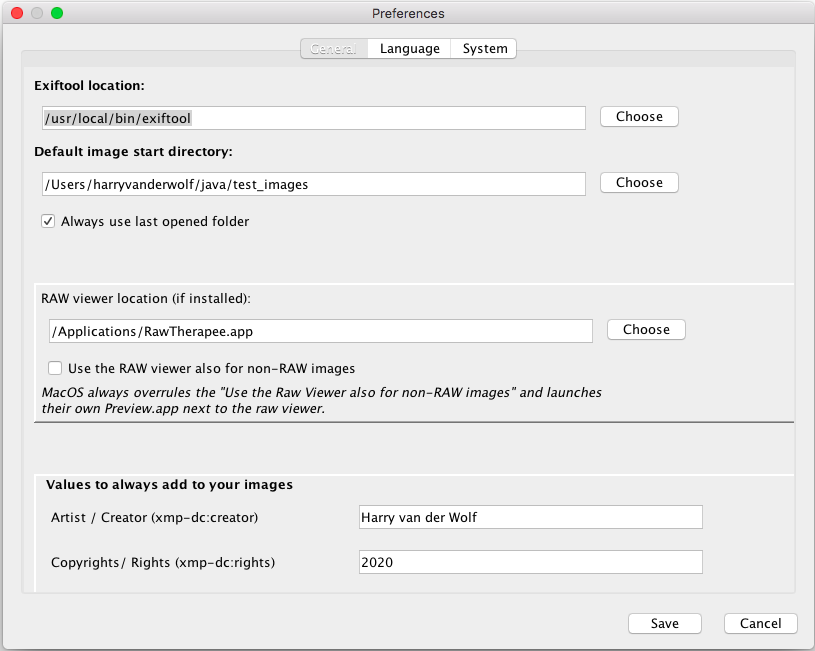
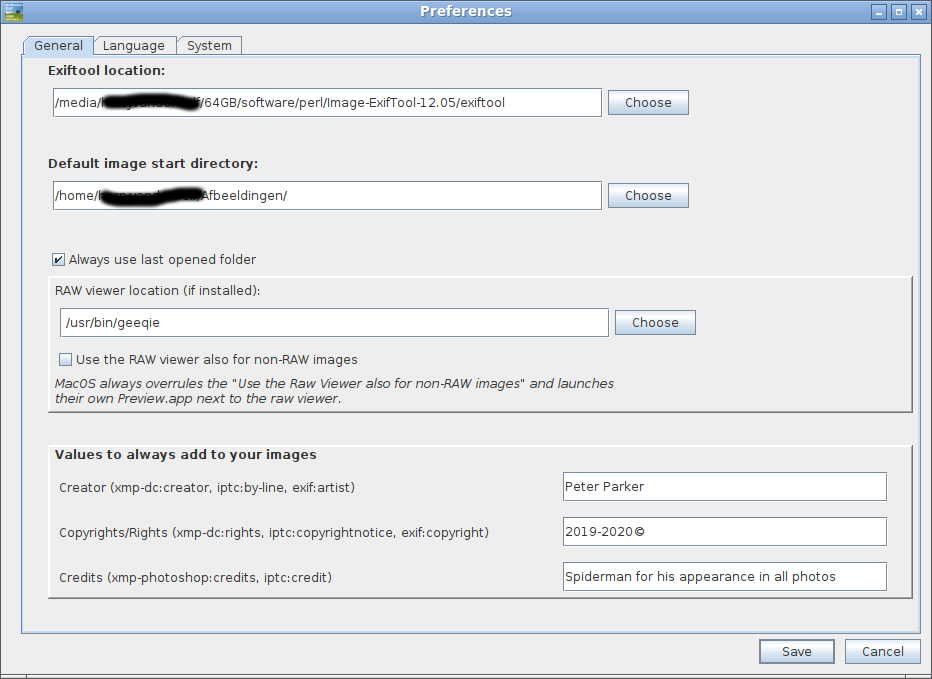
changes: manual, preferences, strings

Changed region(s): [[0.0, 0.0, 1.0, 1.0], [0.6442, 0.4608, 0.8282, 0.5223]]

diff --git a/docs/manual/index.html b/docs/manual/index.html
@@ -221,8 +221,8 @@ All other versions: be it the MacOS bundles, or windows .exes or linux appImage 
 <h2 class="chapter">3 Quick Start</h2>
 
 <p>The program consists of a left pane containing your photos, and a right pane which consists of a set of tabs. One of these tabs ("Edit") contains a subset of tabs.
-Next to the tabs on the right the program also has several menusu which contain more functionalities.
-A number of buttons and functions will not work, and are disabled, untill you have loaded at least one photo.
+Next to the tabs on the right, the program also has several menus which contain more functionalities.
+A number of buttons and functions will not work, and are disabled, until you have loaded at least one photo.
 Most actions on your images which you perform in the right tabs or in the menus, only work after having selected at least one, or more of the loaded photos in the left pane.
 <figure>
     <a href="images/mainscreen-quickstart-01.png" target="_blank"><img src="images/mainscreen-quickstart-01.png" width="1024"></a><br>
@@ -336,14 +336,16 @@ Upon saving this set, you also use the file chooser to select the cfg file you c
 <p><a name="preferences"></a>
 <h3 class="chapter">5 Preferences</h3>
 The Preferences can be found under the menu "File -> Preferences"<br>
-Currently the Preferences screen has 3 tabs: General, Language, System. See below (reduced size) images.<br>
-<table><tr valign="top"><td><a href="images/01-preferences-general.png" target="_blank"><img src="images/01-preferences-general-450.png"></a></td>
+Currently the Preferences screen has 3 tabs: General (Linux LXDE), Language (Windows), System (MacOS). See below (reduced size) images.<br>
+<table><tr valign="top"><td><a href="images/01-preferences-general.png" target="_blank"><img src="images/01-preferences-general-500.png"></a></td>
     <td><a href="images/02-preferences-language.png" target="_blank"><img src="images/02-preferences-language-450.png"></a><br><hr>
         <a href="images/03-preferences-system.png" target="_blank"><img src="images/03-preferences-system-450.png"></a>
         </td></tr><tr><td colspan=" 2"><center>Click the images for a full-sized view in a separate tab.</center></td></tr><table>
-<p>The <strong>"General"</strong> tab (left): W.r.t. the "Raw Image viewer". jExiftoolGUI can show quite a lot of images like jpg/png/tif/bmp/pgm, but not Raw Images (it can convert some to jpg thumbnails for viewing in the left pane), and neither can most operating systems. So if you have Raw Images and you want to see them full screen, you need to install a Raw Image Viewer.</p>
+<p>The <strong>"General"</strong> tab (left): 
+    <ul><li>W.r.t. the "Raw Image viewer". jExiftoolGUI can show quite a lot of images like jpg/png/tif/bmp/pgm, but not Raw Images (it can convert some to jpg thumbnails for viewing in the left pane), and neither can most operating systems show Raw Images. So if you have Raw Images and you want to see them full screen, you need to install a Raw Image Viewer.</li>
+    <li>Values to always add to your images: These are 3 input fileds writing to multiple metadata tags. the xmp and iptc tags are used by Google Photos and many professional photographers. The somewhat older exif tags are meant for the same purposes but slightly outdate.</li></ul></p>
 <p>The <strong>"Language"</strong> tab (top right): jExifToolGUI can be translated. jExifToolGUI will try to start in the operating system language, but only if that is available as translated "property language".  It is currently translated in (American) English (default), Spanish, German and Dutch. On this tab you can select one of those languages if you prefer that over your system language, or in case your system language is not supported but your American English is not as good as your Spanish or German.<br>
-Many users have helped to translate the desciption of metadata tags in Exiftool. This has nothing to do with jExifToolGUI, but with ExifTool. You can select a number of languages and if the tag is translated you will see it in that language.<br>
+Many users have helped to translate the desciption of metadata tags in Exiftool. This has nothing to do with jExifToolGUI, but with ExifTool. You can select a number of languages and if the tag is translated you will see the tag in that language.<br>
 Translating the application in your language is a volunteers/community effort. <a href="https://hvdwolf.github.io/jExifToolGUI/translate.html" target="_blank">Please help in translating this application</a>.</p>
 <p>The <strong>"System"</strong> tab (bottom right): W.r.t. the log level: Do not set it too high. That will create huge files and slow down the application (due to all the logging). The author or someone else might ask you to put it to the highest level for trobleshooting.</p>
 <p><br></p><HR>

diff --git a/src/main/java/org/hvdw/jexiftoolgui/PreferencesDialog.java b/src/main/java/org/hvdw/jexiftoolgui/PreferencesDialog.java
@@ -335,22 +335,22 @@ public class PreferencesDialog extends JDialog {
         contentPanel = new JPanel();
         contentPanel.setLayout(new GridLayoutManager(2, 1, new Insets(10, 10, 10, 10), -1, -1));
         tabbedPanel = new JTabbedPane();
-        contentPanel.add(tabbedPanel, new GridConstraints(0, 0, 1, 1, GridConstraints.ANCHOR_CENTER, GridConstraints.FILL_NONE, GridConstraints.SIZEPOLICY_CAN_SHRINK | GridConstraints.SIZEPOLICY_CAN_GROW, GridConstraints.SIZEPOLICY_CAN_SHRINK | GridConstraints.SIZEPOLICY_CAN_GROW, null, null, null, 0, false));
+        contentPanel.add(tabbedPanel, new GridConstraints(0, 0, 1, 1, GridConstraints.ANCHOR_CENTER, GridConstraints.FILL_NONE, GridConstraints.SIZEPOLICY_CAN_SHRINK | GridConstraints.SIZEPOLICY_CAN_GROW, GridConstraints.SIZEPOLICY_CAN_SHRINK | GridConstraints.SIZEPOLICY_CAN_GROW, null, new Dimension(900, 600), null, 1, false));
         final JPanel panel1 = new JPanel();
         panel1.setLayout(new GridLayoutManager(1, 1, new Insets(0, 0, 0, 0), -1, -1));
-        panel1.setMinimumSize(new Dimension(770, 500));
-        panel1.setPreferredSize(new Dimension(770, 525));
+        panel1.setMinimumSize(new Dimension(-1, -1));
+        panel1.setPreferredSize(new Dimension(-1, -1));
         tabbedPanel.addTab(this.$$$getMessageFromBundle$$$("translations/program_strings", "prefs.generaltab"), panel1);
         generalPanel = new JPanel();
-        generalPanel.setLayout(new GridLayoutManager(10, 1, new Insets(10, 10, 10, 10), -1, -1));
+        generalPanel.setLayout(new GridLayoutManager(7, 1, new Insets(5, 5, 5, 5), -1, -1));
         generalPanel.setMaximumSize(new Dimension(-1, -1));
-        generalPanel.setMinimumSize(new Dimension(800, 600));
-        generalPanel.setPreferredSize(new Dimension(850, 650));
+        generalPanel.setMinimumSize(new Dimension(-1, -1));
+        generalPanel.setPreferredSize(new Dimension(-1, -1));
         generalPanel.setRequestFocusEnabled(false);
-        panel1.add(generalPanel, new GridConstraints(0, 0, 1, 1, GridConstraints.ANCHOR_CENTER, GridConstraints.FILL_BOTH, GridConstraints.SIZEPOLICY_CAN_SHRINK | GridConstraints.SIZEPOLICY_CAN_GROW, GridConstraints.SIZEPOLICY_CAN_SHRINK | GridConstraints.SIZEPOLICY_CAN_GROW, null, null, null, 0, false));
+        panel1.add(generalPanel, new GridConstraints(0, 0, 1, 1, GridConstraints.ANCHOR_NORTH, GridConstraints.FILL_HORIZONTAL, GridConstraints.SIZEPOLICY_CAN_SHRINK | GridConstraints.SIZEPOLICY_CAN_GROW, GridConstraints.SIZEPOLICY_CAN_SHRINK | GridConstraints.SIZEPOLICY_CAN_GROW, null, new Dimension(850, 600), null, 2, false));
         final JPanel panel2 = new JPanel();
         panel2.setLayout(new GridLayoutManager(2, 1, new Insets(0, 0, 0, 0), -1, -1));
-        generalPanel.add(panel2, new GridConstraints(0, 0, 1, 1, GridConstraints.ANCHOR_CENTER, GridConstraints.FILL_BOTH, GridConstraints.SIZEPOLICY_CAN_SHRINK | GridConstraints.SIZEPOLICY_CAN_GROW, GridConstraints.SIZEPOLICY_CAN_SHRINK | GridConstraints.SIZEPOLICY_CAN_GROW, null, null, null, 0, false));
+        generalPanel.add(panel2, new GridConstraints(0, 0, 1, 1, GridConstraints.ANCHOR_NORTH, GridConstraints.FILL_HORIZONTAL, GridConstraints.SIZEPOLICY_CAN_SHRINK | GridConstraints.SIZEPOLICY_CAN_GROW, GridConstraints.SIZEPOLICY_CAN_SHRINK | GridConstraints.SIZEPOLICY_CAN_GROW, null, null, null, 0, false));
         final JLabel label1 = new JLabel();
         Font label1Font = this.$$$getFont$$$(null, Font.BOLD, -1, label1.getFont());
         if (label1Font != null) label1.setFont(label1Font);
@@ -373,17 +373,18 @@ public class PreferencesDialog extends JDialog {
         generalPanel.add(label2, new GridConstraints(1, 0, 1, 1, GridConstraints.ANCHOR_WEST, GridConstraints.FILL_NONE, GridConstraints.SIZEPOLICY_FIXED, GridConstraints.SIZEPOLICY_FIXED, null, null, null, 0, false));
         final JPanel panel4 = new JPanel();
         panel4.setLayout(new FlowLayout(FlowLayout.LEFT, 5, 5));
-        generalPanel.add(panel4, new GridConstraints(2, 0, 1, 1, GridConstraints.ANCHOR_CENTER, GridConstraints.FILL_BOTH, GridConstraints.SIZEPOLICY_CAN_SHRINK | GridConstraints.SIZEPOLICY_CAN_GROW, GridConstraints.SIZEPOLICY_CAN_SHRINK | GridConstraints.SIZEPOLICY_CAN_GROW, null, null, null, 0, false));
+        generalPanel.add(panel4, new GridConstraints(2, 0, 1, 1, GridConstraints.ANCHOR_NORTH, GridConstraints.FILL_HORIZONTAL, GridConstraints.SIZEPOLICY_CAN_SHRINK | GridConstraints.SIZEPOLICY_CAN_GROW, GridConstraints.SIZEPOLICY_CAN_SHRINK | GridConstraints.SIZEPOLICY_CAN_GROW, null, null, null, 0, false));
         ImgStartFoldertextField = new JTextField();
         ImgStartFoldertextField.setMinimumSize(new Dimension(300, 30));
         ImgStartFoldertextField.setPreferredSize(new Dimension(550, 30));
+        ImgStartFoldertextField.setText("");
         panel4.add(ImgStartFoldertextField);
         ImgStartFolderButton = new JButton();
         this.$$$loadButtonText$$$(ImgStartFolderButton, this.$$$getMessageFromBundle$$$("translations/program_strings", "prefs.btnchoose"));
         panel4.add(ImgStartFolderButton);
         final JPanel panel5 = new JPanel();
-        panel5.setLayout(new GridLayoutManager(4, 1, new Insets(0, 10, 0, 0), -1, -1));
-        generalPanel.add(panel5, new GridConstraints(8, 0, 1, 1, GridConstraints.ANCHOR_CENTER, GridConstraints.FILL_BOTH, GridConstraints.SIZEPOLICY_CAN_SHRINK | GridConstraints.SIZEPOLICY_CAN_GROW, GridConstraints.SIZEPOLICY_CAN_SHRINK | GridConstraints.SIZEPOLICY_CAN_GROW, null, null, null, 0, false));
+        panel5.setLayout(new GridLayoutManager(4, 1, new Insets(0, 5, 0, 0), -1, -1));
+        generalPanel.add(panel5, new GridConstraints(6, 0, 1, 1, GridConstraints.ANCHOR_NORTH, GridConstraints.FILL_HORIZONTAL, GridConstraints.SIZEPOLICY_CAN_SHRINK | GridConstraints.SIZEPOLICY_CAN_GROW, GridConstraints.SIZEPOLICY_CAN_SHRINK | GridConstraints.SIZEPOLICY_CAN_GROW, null, null, null, 0, false));
         panel5.setBorder(BorderFactory.createTitledBorder(BorderFactory.createRaisedBevelBorder(), null, TitledBorder.DEFAULT_JUSTIFICATION, TitledBorder.DEFAULT_POSITION, null, null));
         final JLabel label3 = new JLabel();
         Font label3Font = this.$$$getFont$$$(null, Font.BOLD, -1, label3.getFont());
@@ -391,65 +392,61 @@ public class PreferencesDialog extends JDialog {
         this.$$$loadLabelText$$$(label3, this.$$$getMessageFromBundle$$$("translations/program_strings", "prefs.alwaysaddvals"));
         panel5.add(label3, new GridConstraints(0, 0, 1, 1, GridConstraints.ANCHOR_WEST, GridConstraints.FILL_NONE, GridConstraints.SIZEPOLICY_FIXED, GridConstraints.SIZEPOLICY_FIXED, null, null, null, 0, false));
         final JPanel panel6 = new JPanel();
-        panel6.setLayout(new FlowLayout(FlowLayout.LEFT, 5, 5));
-        panel5.add(panel6, new GridConstraints(1, 0, 1, 1, GridConstraints.ANCHOR_CENTER, GridConstraints.FILL_BOTH, GridConstraints.SIZEPOLICY_CAN_SHRINK | GridConstraints.SIZEPOLICY_CAN_GROW, GridConstraints.SIZEPOLICY_CAN_SHRINK | GridConstraints.SIZEPOLICY_CAN_GROW, null, null, null, 0, false));
+        panel6.setLayout(new FlowLayout(FlowLayout.LEFT, 4, 5));
+        panel5.add(panel6, new GridConstraints(1, 0, 1, 1, GridConstraints.ANCHOR_NORTH, GridConstraints.FILL_HORIZONTAL, GridConstraints.SIZEPOLICY_CAN_SHRINK | GridConstraints.SIZEPOLICY_WANT_GROW, GridConstraints.SIZEPOLICY_CAN_SHRINK | GridConstraints.SIZEPOLICY_CAN_GROW, null, null, null, 0, false));
         final JLabel label4 = new JLabel();
         label4.setMaximumSize(new Dimension(300, 18));
         label4.setMinimumSize(new Dimension(220, 18));
-        label4.setPreferredSize(new Dimension(300, 18));
+        label4.setPreferredSize(new Dimension(500, 18));
         this.$$$loadLabelText$$$(label4, this.$$$getMessageFromBundle$$$("translations/program_strings", "prefs.artist"));
         panel6.add(label4);
         ArtisttextField = new JTextField();
-        ArtisttextField.setPreferredSize(new Dimension(350, 30));
+        ArtisttextField.setPreferredSize(new Dimension(325, 30));
         panel6.add(ArtisttextField);
         final JPanel panel7 = new JPanel();
-        panel7.setLayout(new FlowLayout(FlowLayout.LEFT, 5, 5));
-        panel5.add(panel7, new GridConstraints(2, 0, 1, 1, GridConstraints.ANCHOR_CENTER, GridConstraints.FILL_BOTH, GridConstraints.SIZEPOLICY_CAN_SHRINK | GridConstraints.SIZEPOLICY_CAN_GROW, GridConstraints.SIZEPOLICY_CAN_SHRINK | GridConstraints.SIZEPOLICY_CAN_GROW, null, null, null, 0, false));
+        panel7.setLayout(new FlowLayout(FlowLayout.LEFT, 4, 5));
+        panel5.add(panel7, new GridConstraints(2, 0, 1, 1, GridConstraints.ANCHOR_NORTH, GridConstraints.FILL_HORIZONTAL, GridConstraints.SIZEPOLICY_CAN_SHRINK | GridConstraints.SIZEPOLICY_WANT_GROW, GridConstraints.SIZEPOLICY_CAN_SHRINK | GridConstraints.SIZEPOLICY_CAN_GROW, null, null, null, 0, false));
         final JLabel label5 = new JLabel();
         label5.setMaximumSize(new Dimension(300, 18));
         label5.setMinimumSize(new Dimension(220, 18));
-        label5.setPreferredSize(new Dimension(300, 18));
+        label5.setPreferredSize(new Dimension(500, 18));
         this.$$$loadLabelText$$$(label5, this.$$$getMessageFromBundle$$$("translations/program_strings", "prefs.copyright"));
         panel7.add(label5);
         CopyrightstextField = new JTextField();
-        CopyrightstextField.setPreferredSize(new Dimension(350, 30));
+        CopyrightstextField.setPreferredSize(new Dimension(325, 30));
+        CopyrightstextField.setText("");
         panel7.add(CopyrightstextField);
         final JPanel panel8 = new JPanel();
-        panel8.setLayout(new FlowLayout(FlowLayout.LEFT, 5, 5));
-        panel5.add(panel8, new GridConstraints(3, 0, 1, 1, GridConstraints.ANCHOR_CENTER, GridConstraints.FILL_BOTH, GridConstraints.SIZEPOLICY_CAN_SHRINK | GridConstraints.SIZEPOLICY_CAN_GROW, GridConstraints.SIZEPOLICY_CAN_SHRINK | GridConstraints.SIZEPOLICY_CAN_GROW, null, null, null, 0, false));
+        panel8.setLayout(new FlowLayout(FlowLayout.LEFT, 4, 5));
+        panel5.add(panel8, new GridConstraints(3, 0, 1, 1, GridConstraints.ANCHOR_NORTH, GridConstraints.FILL_HORIZONTAL, GridConstraints.SIZEPOLICY_CAN_SHRINK | GridConstraints.SIZEPOLICY_WANT_GROW, GridConstraints.SIZEPOLICY_CAN_SHRINK | GridConstraints.SIZEPOLICY_CAN_GROW, null, null, null, 0, false));
         final JLabel label6 = new JLabel();
         label6.setMaximumSize(new Dimension(300, 18));
         label6.setMinimumSize(new Dimension(250, 18));
-        label6.setPreferredSize(new Dimension(300, 18));
+        label6.setPreferredSize(new Dimension(500, 18));
         this.$$$loadLabelText$$$(label6, this.$$$getMessageFromBundle$$$("translations/program_strings", "prefs.credits"));
         panel8.add(label6);
         CreditstextField = new JTextField();
-        CreditstextField.setPreferredSize(new Dimension(350, 30));
+        CreditstextField.setPreferredSize(new Dimension(325, 30));
+        CreditstextField.setText("");
         panel8.add(CreditstextField);
         UseLastOpenedFoldercheckBox = new JCheckBox();
         this.$$$loadButtonText$$$(UseLastOpenedFoldercheckBox, this.$$$getMessageFromBundle$$$("translations/program_strings", "prefs.alwaysuselastfolder"));
         UseLastOpenedFoldercheckBox.setToolTipText("Selecting this checkbox will overrule the \"Default image start directory:\"");
         generalPanel.add(UseLastOpenedFoldercheckBox, new GridConstraints(3, 0, 1, 1, GridConstraints.ANCHOR_WEST, GridConstraints.FILL_NONE, GridConstraints.SIZEPOLICY_CAN_SHRINK | GridConstraints.SIZEPOLICY_CAN_GROW, GridConstraints.SIZEPOLICY_FIXED, null, null, null, 0, false));
-        final Spacer spacer1 = new Spacer();
-        generalPanel.add(spacer1, new GridConstraints(7, 0, 1, 1, GridConstraints.ANCHOR_CENTER, GridConstraints.FILL_VERTICAL, 1, GridConstraints.SIZEPOLICY_WANT_GROW, null, null, null, 0, false));
-        CheckVersioncheckBox = new JCheckBox();
-        this.$$$loadButtonText$$$(CheckVersioncheckBox, this.$$$getMessageFromBundle$$$("translations/program_strings", "prefs.checknewversion"));
-        generalPanel.add(CheckVersioncheckBox, new GridConstraints(9, 0, 1, 1, GridConstraints.ANCHOR_WEST, GridConstraints.FILL_NONE, GridConstraints.SIZEPOLICY_CAN_SHRINK | GridConstraints.SIZEPOLICY_CAN_GROW, GridConstraints.SIZEPOLICY_FIXED, null, null, null, 0, false));
-        final Spacer spacer2 = new Spacer();
-        generalPanel.add(spacer2, new GridConstraints(4, 0, 1, 1, GridConstraints.ANCHOR_CENTER, GridConstraints.FILL_VERTICAL, 1, GridConstraints.SIZEPOLICY_WANT_GROW, null, null, null, 0, false));
         final JPanel panel9 = new JPanel();
         panel9.setLayout(new GridLayoutManager(4, 2, new Insets(5, 5, 5, 5), -1, -1));
-        generalPanel.add(panel9, new GridConstraints(5, 0, 1, 1, GridConstraints.ANCHOR_CENTER, GridConstraints.FILL_BOTH, GridConstraints.SIZEPOLICY_CAN_SHRINK | GridConstraints.SIZEPOLICY_CAN_GROW, GridConstraints.SIZEPOLICY_CAN_SHRINK | GridConstraints.SIZEPOLICY_CAN_GROW, null, null, null, 0, false));
+        generalPanel.add(panel9, new GridConstraints(4, 0, 1, 1, GridConstraints.ANCHOR_NORTH, GridConstraints.FILL_HORIZONTAL, GridConstraints.SIZEPOLICY_CAN_SHRINK | GridConstraints.SIZEPOLICY_CAN_GROW, GridConstraints.SIZEPOLICY_CAN_SHRINK | GridConstraints.SIZEPOLICY_CAN_GROW, null, null, null, 0, false));
         panel9.setBorder(BorderFactory.createTitledBorder(BorderFactory.createRaisedBevelBorder(), null, TitledBorder.DEFAULT_JUSTIFICATION, TitledBorder.DEFAULT_POSITION, null, null));
         final JLabel label7 = new JLabel();
         this.$$$loadLabelText$$$(label7, this.$$$getMessageFromBundle$$$("translations/program_strings", "prefs.rawviewerlocation"));
         panel9.add(label7, new GridConstraints(0, 0, 1, 1, GridConstraints.ANCHOR_WEST, GridConstraints.FILL_NONE, GridConstraints.SIZEPOLICY_FIXED, GridConstraints.SIZEPOLICY_FIXED, null, null, null, 0, false));
         final JPanel panel10 = new JPanel();
         panel10.setLayout(new FlowLayout(FlowLayout.LEFT, 5, 5));
-        panel9.add(panel10, new GridConstraints(1, 0, 1, 2, GridConstraints.ANCHOR_CENTER, GridConstraints.FILL_BOTH, GridConstraints.SIZEPOLICY_CAN_SHRINK | GridConstraints.SIZEPOLICY_CAN_GROW, GridConstraints.SIZEPOLICY_CAN_SHRINK | GridConstraints.SIZEPOLICY_CAN_GROW, null, null, null, 0, false));
+        panel9.add(panel10, new GridConstraints(1, 0, 1, 2, GridConstraints.ANCHOR_NORTH, GridConstraints.FILL_HORIZONTAL, GridConstraints.SIZEPOLICY_CAN_SHRINK | GridConstraints.SIZEPOLICY_CAN_GROW, GridConstraints.SIZEPOLICY_CAN_SHRINK | GridConstraints.SIZEPOLICY_CAN_GROW, null, null, null, 0, false));
         RawViewerLocationtextField = new JTextField();
         RawViewerLocationtextField.setMinimumSize(new Dimension(300, 30));
         RawViewerLocationtextField.setPreferredSize(new Dimension(550, 30));
+        RawViewerLocationtextField.setText("");
         panel10.add(RawViewerLocationtextField);
         RawViewerLocationButton = new JButton();
         this.$$$loadButtonText$$$(RawViewerLocationButton, this.$$$getMessageFromBundle$$$("translations/program_strings", "prefs.btnchoose"));
@@ -464,8 +461,8 @@ public class PreferencesDialog extends JDialog {
         panel9.add(label8, new GridConstraints(3, 0, 1, 1, GridConstraints.ANCHOR_WEST, GridConstraints.FILL_NONE, GridConstraints.SIZEPOLICY_FIXED, GridConstraints.SIZEPOLICY_FIXED, null, null, null, 0, false));
         final JPanel panel11 = new JPanel();
         panel11.setLayout(new GridLayoutManager(1, 1, new Insets(0, 0, 0, 0), -1, -1));
-        panel11.setMinimumSize(new Dimension(770, 500));
-        panel11.setPreferredSize(new Dimension(770, 525));
+        panel11.setMinimumSize(new Dimension(-1, -1));
+        panel11.setPreferredSize(new Dimension(-1, -1));
         tabbedPanel.addTab(this.$$$getMessageFromBundle$$$("translations/program_strings", "prefs.languagetab"), panel11);
         final JPanel panel12 = new JPanel();
         panel12.setLayout(new GridLayoutManager(4, 1, new Insets(10, 20, 10, 20), -1, -1));
@@ -484,13 +481,13 @@ public class PreferencesDialog extends JDialog {
         panel13.add(label10);
         localecomboBox = new JComboBox();
         panel13.add(localecomboBox);
-        final Spacer spacer3 = new Spacer();
-        panel12.add(spacer3, new GridConstraints(1, 0, 1, 1, GridConstraints.ANCHOR_CENTER, GridConstraints.FILL_VERTICAL, 1, GridConstraints.SIZEPOLICY_WANT_GROW, null, null, null, 0, false));
+        final Spacer spacer1 = new Spacer();
+        panel12.add(spacer1, new GridConstraints(1, 0, 1, 1, GridConstraints.ANCHOR_CENTER, GridConstraints.FILL_VERTICAL, 1, GridConstraints.SIZEPOLICY_WANT_GROW, null, null, null, 0, false));
         final JPanel panel14 = new JPanel();
-        panel14.setLayout(new GridLayoutManager(5, 1, new Insets(5, 5, 5, 5), -1, -1));
+        panel14.setLayout(new GridLayoutManager(6, 1, new Insets(5, 5, 5, 5), -1, -1));
         tabbedPanel.addTab(this.$$$getMessageFromBundle$$$("translations/program_strings", "prefs.system"), panel14);
-        final Spacer spacer4 = new Spacer();
-        panel14.add(spacer4, new GridConstraints(4, 0, 1, 1, GridConstraints.ANCHOR_CENTER, GridConstraints.FILL_VERTICAL, 1, GridConstraints.SIZEPOLICY_WANT_GROW, null, null, null, 0, false));
+        final Spacer spacer2 = new Spacer();
+        panel14.add(spacer2, new GridConstraints(5, 0, 1, 1, GridConstraints.ANCHOR_CENTER, GridConstraints.FILL_VERTICAL, 1, GridConstraints.SIZEPOLICY_WANT_GROW, null, null, null, 0, false));
         filechooserpanel = new JPanel();
         filechooserpanel.setLayout(new GridLayoutManager(2, 2, new Insets(5, 5, 5, 5), -1, -1));
         panel14.add(filechooserpanel, new GridConstraints(0, 0, 1, 1, GridConstraints.ANCHOR_CENTER, GridConstraints.FILL_BOTH, GridConstraints.SIZEPOLICY_CAN_SHRINK | GridConstraints.SIZEPOLICY_WANT_GROW, GridConstraints.SIZEPOLICY_CAN_SHRINK | GridConstraints.SIZEPOLICY_CAN_GROW, null, null, null, 0, false));
@@ -541,11 +538,14 @@ public class PreferencesDialog extends JDialog {
         useG1GroupcheckBox.setSelected(true);
         this.$$$loadButtonText$$$(useG1GroupcheckBox, this.$$$getMessageFromBundle$$$("translations/program_strings", "prefs.useg1group"));
         panel14.add(useG1GroupcheckBox, new GridConstraints(2, 0, 1, 1, GridConstraints.ANCHOR_WEST, GridConstraints.FILL_NONE, GridConstraints.SIZEPOLICY_CAN_SHRINK | GridConstraints.SIZEPOLICY_CAN_GROW, GridConstraints.SIZEPOLICY_FIXED, null, null, null, 0, false));
+        CheckVersioncheckBox = new JCheckBox();
+        this.$$$loadButtonText$$$(CheckVersioncheckBox, this.$$$getMessageFromBundle$$$("translations/program_strings", "prefs.checknewversion"));
+        panel14.add(CheckVersioncheckBox, new GridConstraints(4, 0, 1, 1, GridConstraints.ANCHOR_WEST, GridConstraints.FILL_NONE, GridConstraints.SIZEPOLICY_CAN_SHRINK | GridConstraints.SIZEPOLICY_CAN_GROW, GridConstraints.SIZEPOLICY_FIXED, null, null, null, 0, false));
         final JPanel panel16 = new JPanel();
         panel16.setLayout(new GridLayoutManager(1, 2, new Insets(0, 0, 0, 0), -1, -1));
         contentPanel.add(panel16, new GridConstraints(1, 0, 1, 1, GridConstraints.ANCHOR_CENTER, GridConstraints.FILL_BOTH, GridConstraints.SIZEPOLICY_CAN_SHRINK | GridConstraints.SIZEPOLICY_CAN_GROW, 1, null, null, null, 1, false));
-        final Spacer spacer5 = new Spacer();
-        panel16.add(spacer5, new GridConstraints(0, 0, 1, 1, GridConstraints.ANCHOR_CENTER, GridConstraints.FILL_HORIZONTAL, GridConstraints.SIZEPOLICY_WANT_GROW, 1, null, null, null, 0, false));
+        final Spacer spacer3 = new Spacer();
+        panel16.add(spacer3, new GridConstraints(0, 0, 1, 1, GridConstraints.ANCHOR_CENTER, GridConstraints.FILL_HORIZONTAL, GridConstraints.SIZEPOLICY_WANT_GROW, 1, null, null, null, 0, false));
         final JPanel panel17 = new JPanel();
         panel17.setLayout(new GridLayoutManager(1, 2, new Insets(0, 0, 0, 0), -1, -1, true, false));
         panel16.add(panel17, new GridConstraints(0, 1, 1, 1, GridConstraints.ANCHOR_CENTER, GridConstraints.FILL_BOTH, GridConstraints.SIZEPOLICY_CAN_SHRINK | GridConstraints.SIZEPOLICY_CAN_GROW, GridConstraints.SIZEPOLICY_CAN_SHRINK | GridConstraints.SIZEPOLICY_CAN_GROW, null, null, null, 0, false));

diff --git a/src/main/java/org/hvdw/jexiftoolgui/Utils.java b/src/main/java/org/hvdw/jexiftoolgui/Utils.java
@@ -209,13 +209,23 @@ public class Utils {
         if (!prefs.getByKey(ARTIST, "").equals("") && !prefs.getByKey(ARTIST, "").equals(" ") ) {
             exifartist = "-exif:Artist=" + prefs.getByKey(ARTIST, "");
             AlwaysAddParams.add(exifartist);
+            exifartist = "-xmp-dc:creator=" + prefs.getByKey(ARTIST, "");
+            AlwaysAddParams.add(exifartist);
+            exifartist = "-iptc:by-line=" + prefs.getByKey(ARTIST, "");
+            AlwaysAddParams.add(exifartist);
         }
         if (!prefs.getByKey(CREDIT, "").equals("") && !prefs.getByKey(CREDIT, "").equals(" ")) {
-            credits = "-xmp:Credit=" + prefs.getByKey(CREDIT, "");
+            credits = "-xmp-photoshop:Credit=" + prefs.getByKey(CREDIT, "");
+            AlwaysAddParams.add(credits);
+            credits = "-iptc:Credit=" + prefs.getByKey(CREDIT, "");
             AlwaysAddParams.add(credits);
         }
         if (!prefs.getByKey(COPYRIGHTS, "").equals("") && !prefs.getByKey(COPYRIGHTS, "").equals(" ")) {
             copyright = "-exif:Copyright=" + prefs.getByKey(COPYRIGHTS, "");
+            AlwaysAddParams.add(copyright);
+            copyright = "-xmp-dc:rights=" + prefs.getByKey(COPYRIGHTS, "");
+            AlwaysAddParams.add(copyright);
+            copyright = "-iptc:copyrightnotice=" + prefs.getByKey(COPYRIGHTS, "");
             AlwaysAddParams.add(copyright);
         }
         AlwaysAddParams.add("-exif:ProcessingSoftware=jExifToolGUI " + ProgramTexts.Version);

diff --git a/src/main/java/org/hvdw/jexiftoolgui/facades/IPreferencesFacade.java b/src/main/java/org/hvdw/jexiftoolgui/facades/IPreferencesFacade.java
@@ -5,9 +5,9 @@ public interface IPreferencesFacade {
         USE_LAST_OPENED_FOLDER("uselastopenedfolder"),
         LAST_OPENED_FOLDER("lastopenedfolder"),
         DEFAULT_START_FOLDER("defaultstartfolder"),
-        ARTIST("artist"),  // xmp-dc:creator
-        COPYRIGHTS("copyrights"),  // xmp-dc:rights
-        CREDIT("credit"),  // xmp:credit
+        ARTIST("artist"),  // xmp-dc:creator, exif:artist, iptc:by-line
+        COPYRIGHTS("copyrights"),  // xmp-dc:rights, exif:Copyright, iptc:copyrightnotice
+        CREDIT("credit"),  // xmp-photoshop:credit, iptc:credit
         VERSION_CHECK("versioncheck"),
         LAST_APPLICATION_VERSION("applicationVersion"),
         EXIFTOOL_PATH("exiftool"),
